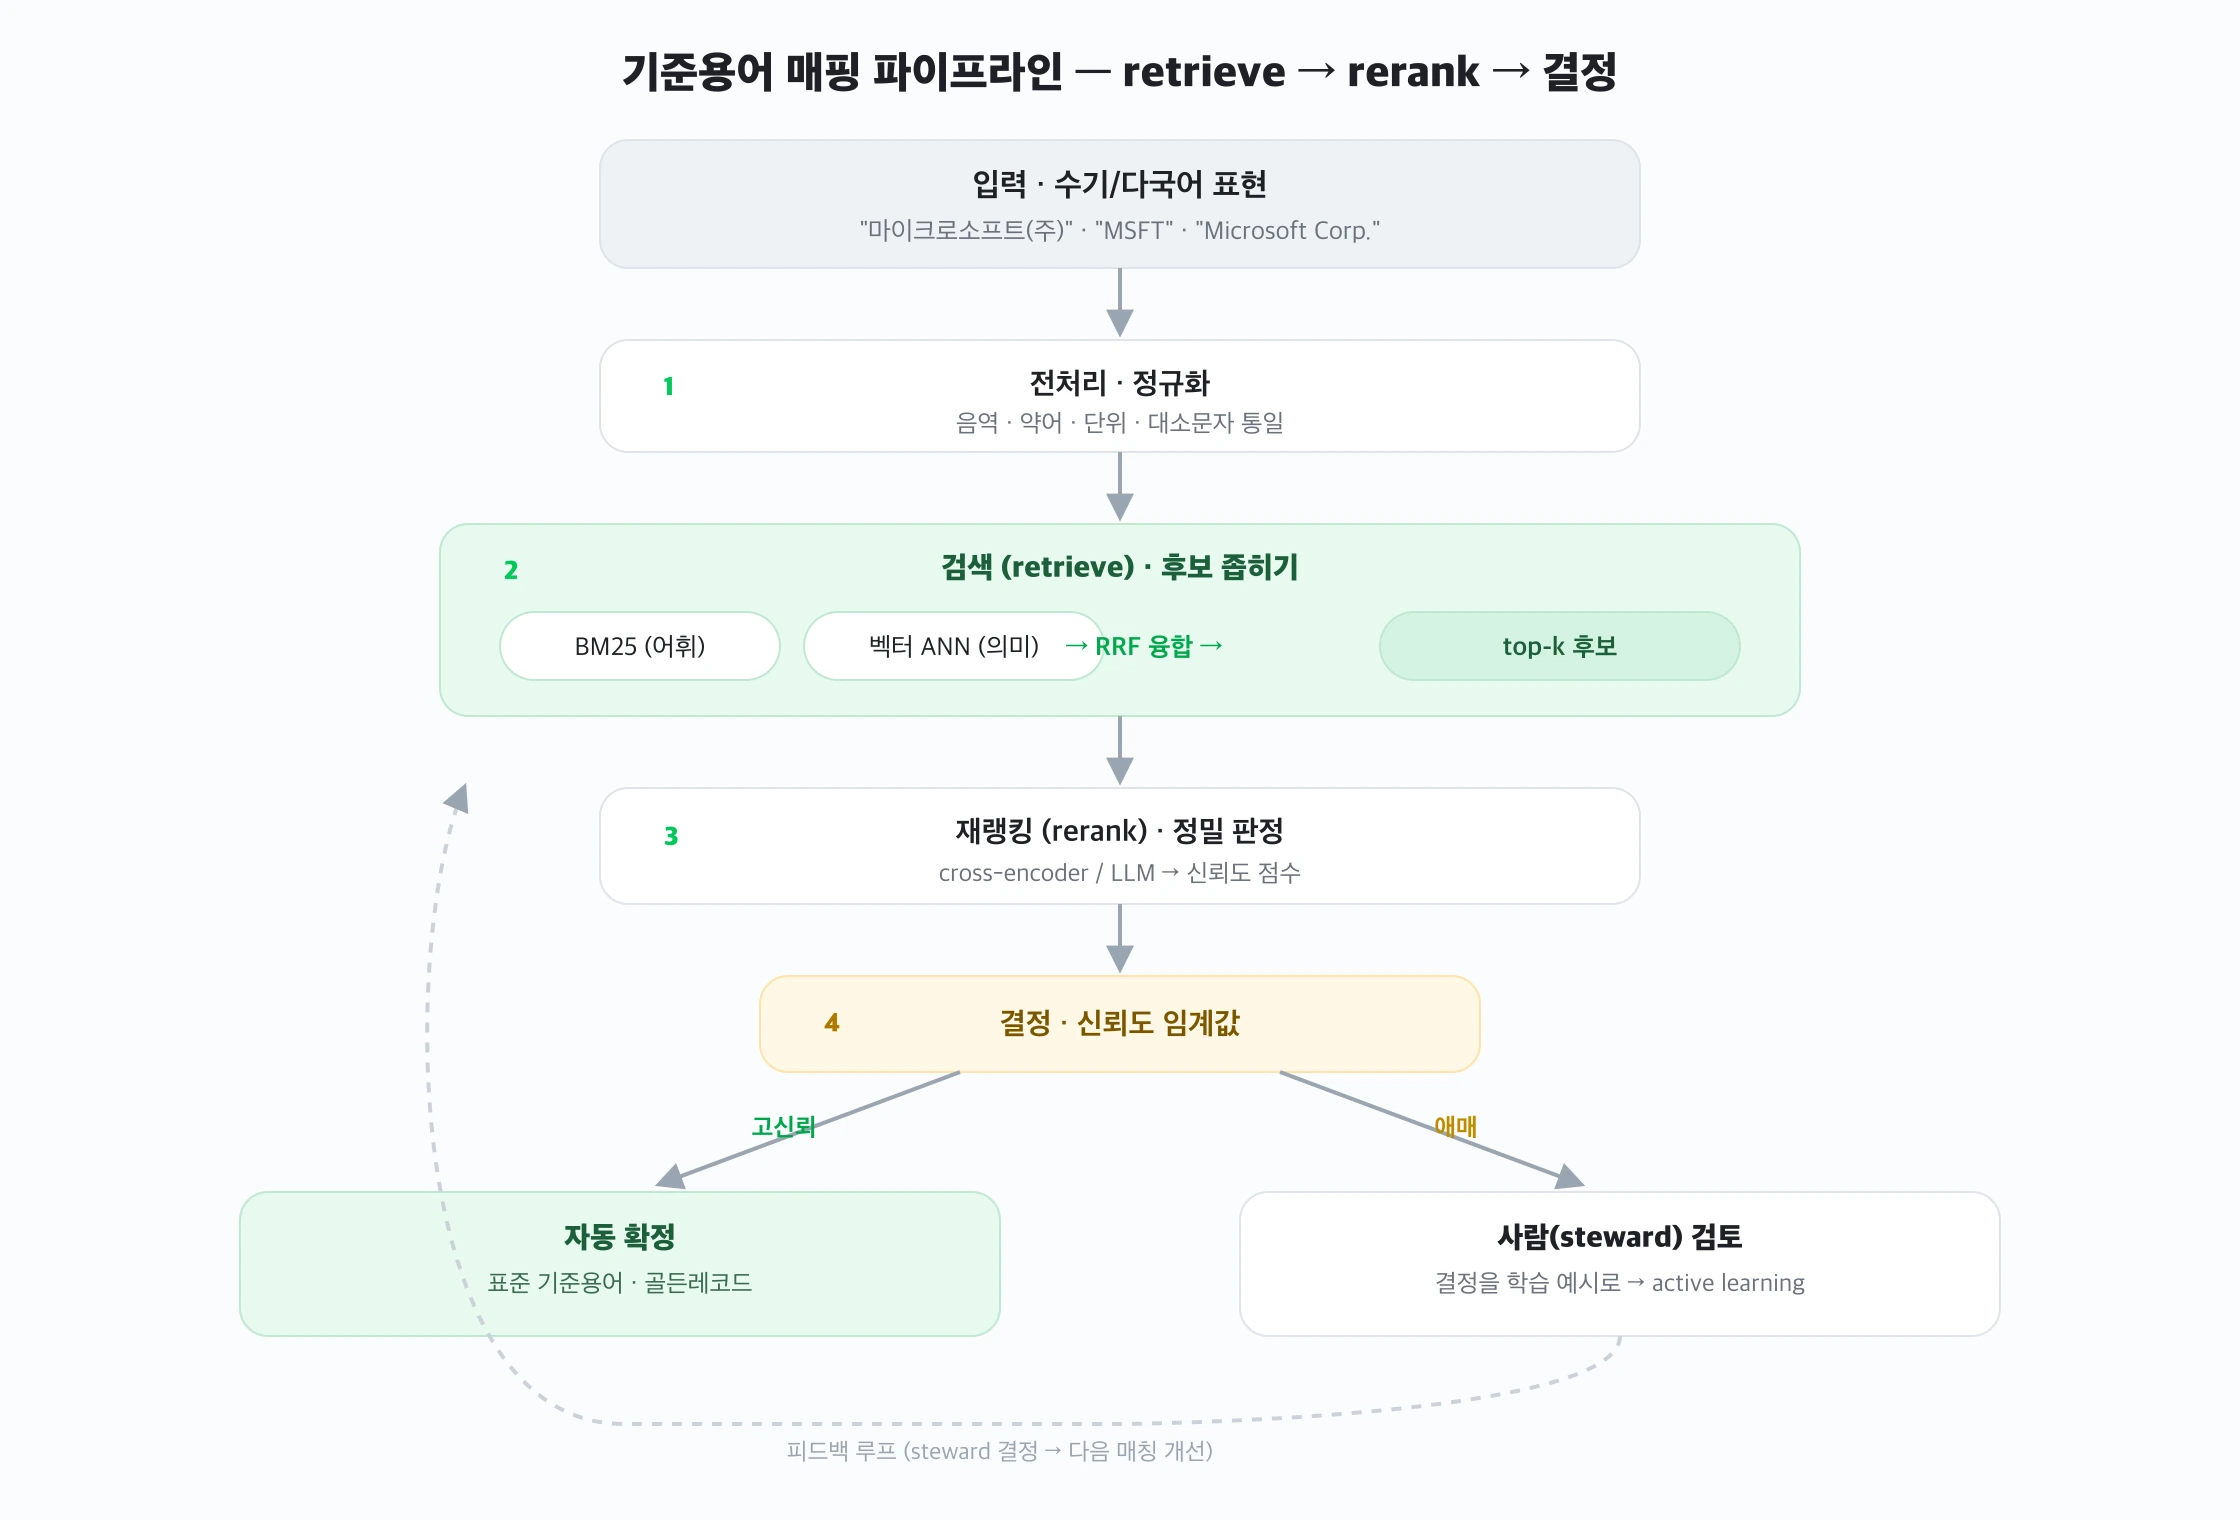
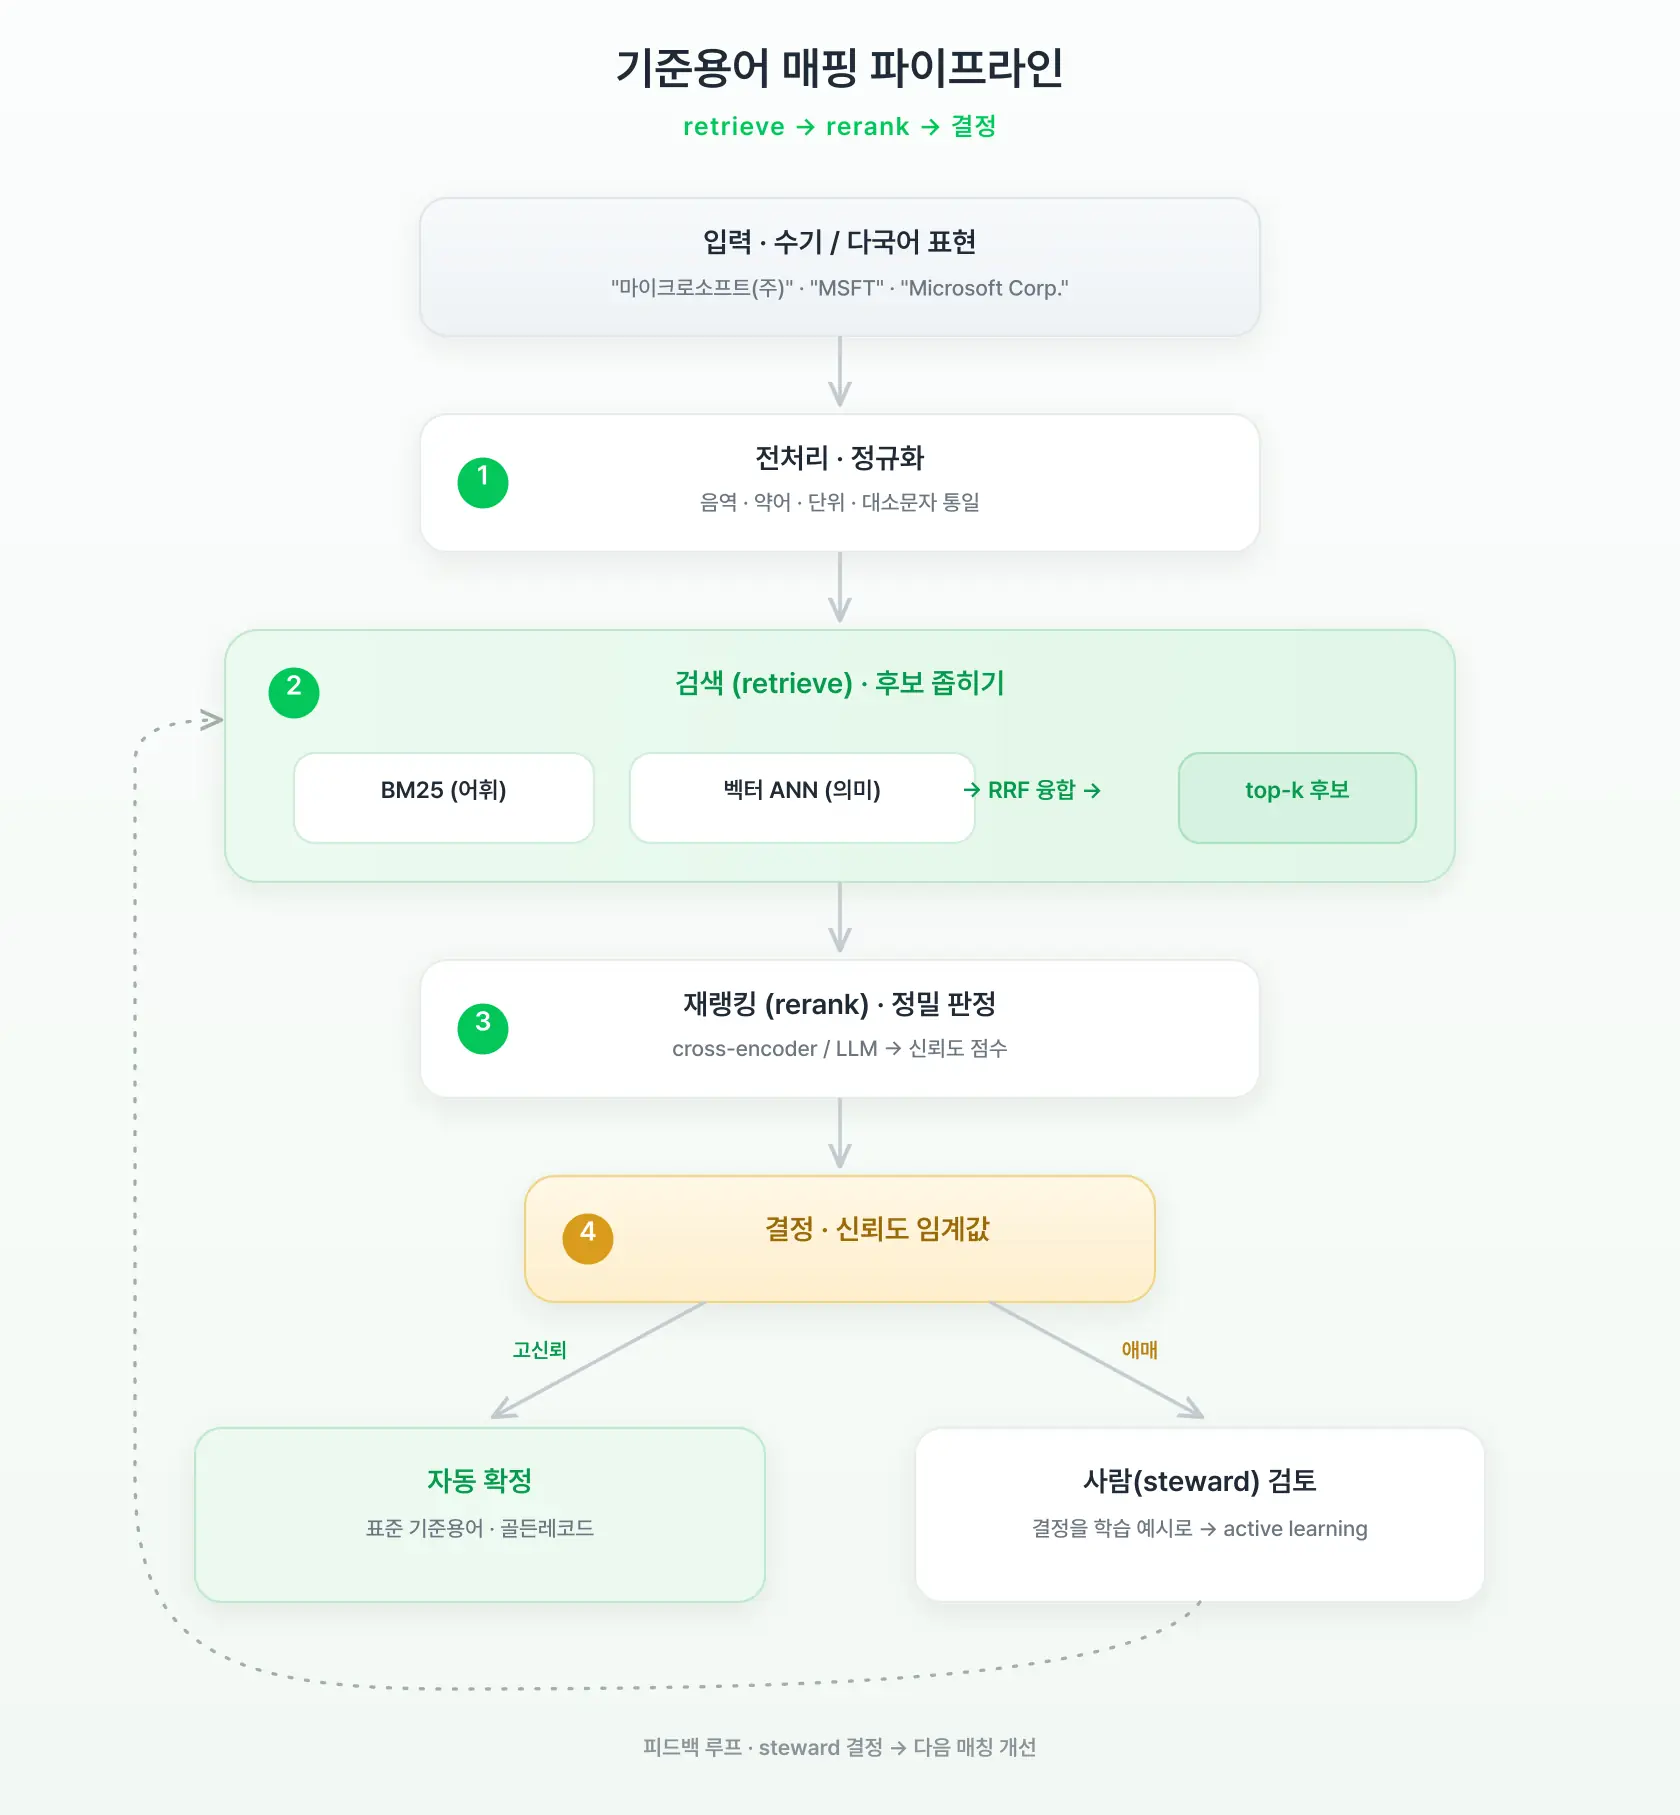
design: 기준용어 매핑 다이어그램 리디자인 — 그림자·원형 배지·그라데이션 밴드·정돈된 피드백 루프 (경량 webp)

diff --git a/src/data/blog.ts b/src/data/blog.ts
@@ -97,8 +97,8 @@ export const posts: BlogPost[] = [
                 type: "image",
                 src: "/mapping-pipeline.webp",
                 alt: "기준용어 매핑 파이프라인 다이어그램 — 입력·전처리 → 검색(BM25+벡터→RRF→top-k) → 재랭킹(cross-encoder/LLM) → 신뢰도 임계값 → 자동 확정 또는 steward 검토, 그리고 피드백 루프",
-                width: 2240,
-                height: 1520,
+                width: 1680,
+                height: 1815,
                 caption:
                     "전체 흐름을 그림으로: 후보를 넓게 검색해 좁히고(retrieve), 정밀하게 재정렬한 뒤(rerank), 신뢰도로 자동 확정과 사람 검토를 나눕니다. 검토 결과는 다시 학습에 환류됩니다.",
             },